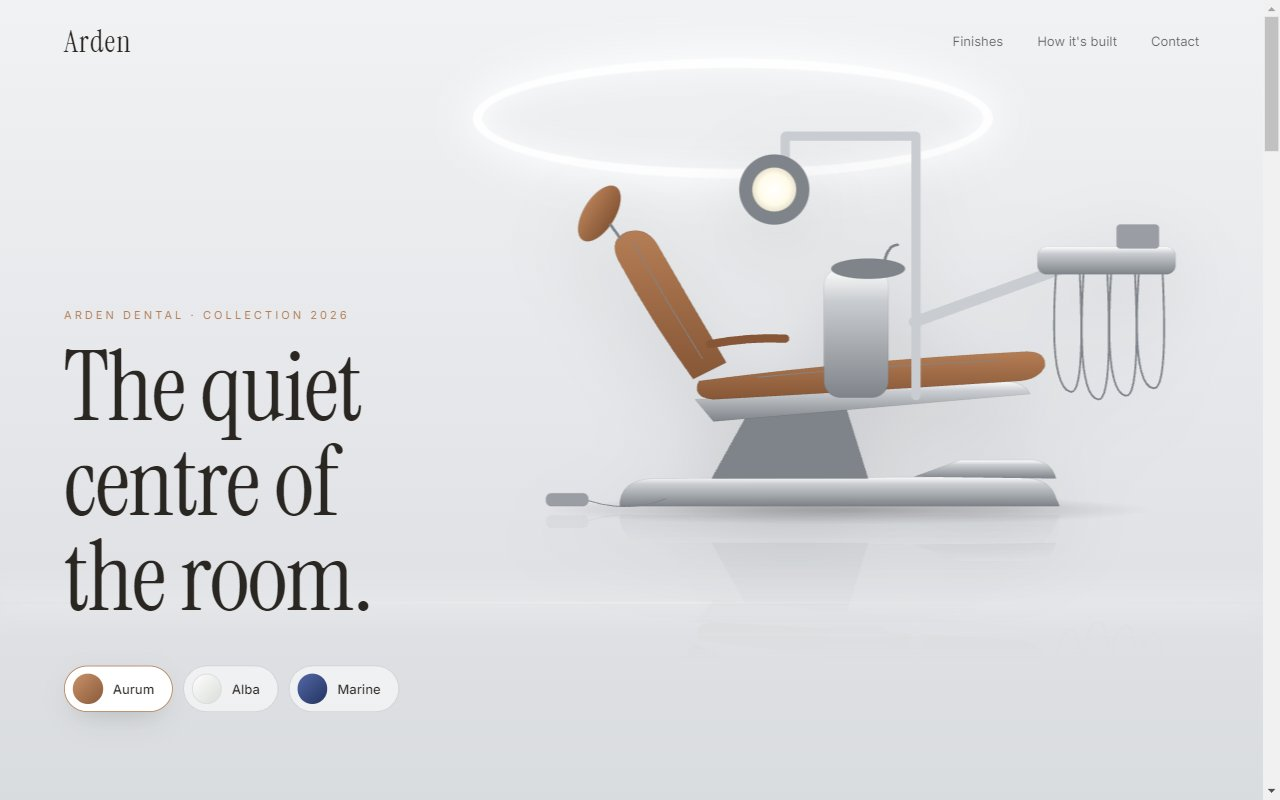
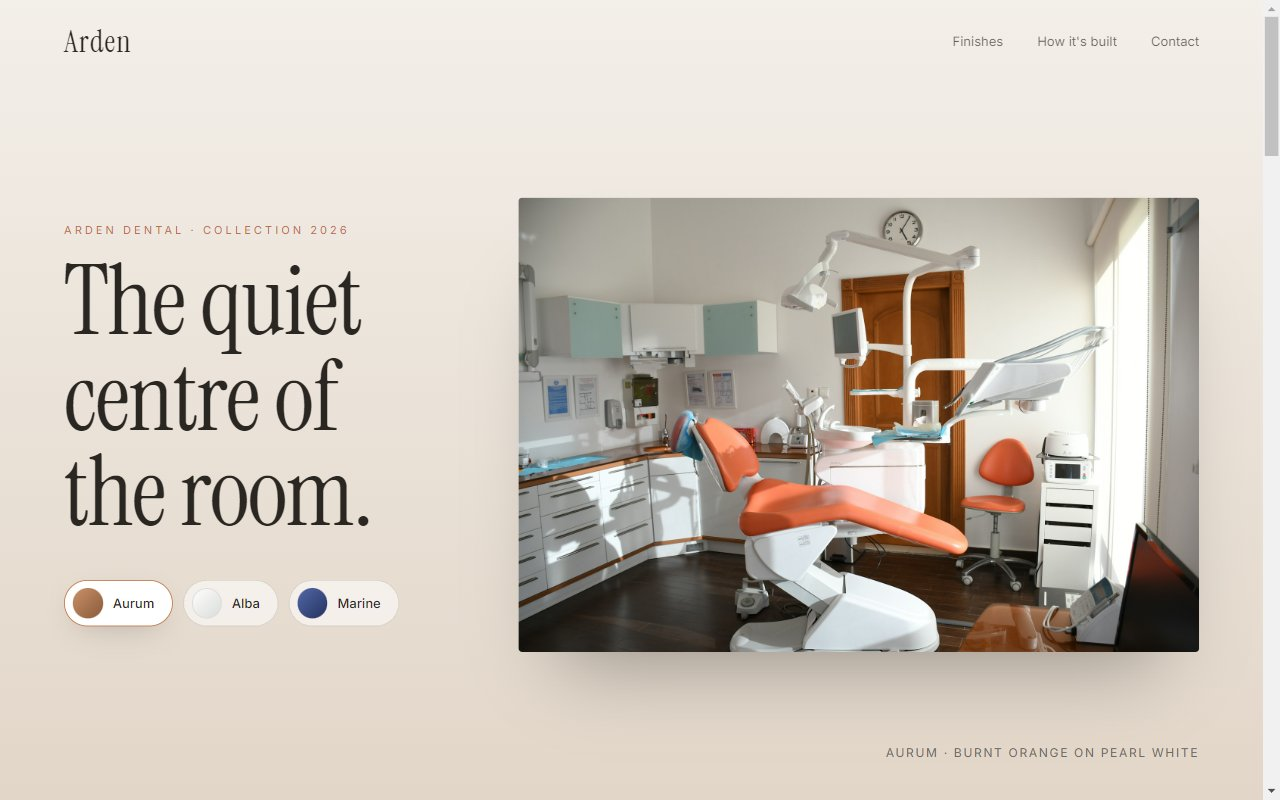
Arden: real photography in place of the drawn chairs
The hero and the three finish rooms now use real, license-free dental
chair photos (Unsplash, metadata stripped), with each section's colours
matched to its photo. The production blueprint stays a line drawing.

diff --git a/templates/aurum/style.css b/templates/aurum/style.css
@@ -1,8 +1,8 @@
 /* Arden: each room takes its colours from its chair. */
 :root { --serif: 'Instrument Serif', Georgia, serif; --sans: 'Inter Variable', system-ui, sans-serif; --ease: cubic-bezier(.16,1,.3,1); }
-body[data-finish='aurum'] { --bg1: #f1f2f4; --bg2: #d4d7db; --ink: #2a2622; --accent: #b47d55; --muted: #6f6a64; }
+body[data-finish='aurum'] { --bg1: #f3efe9; --bg2: #e2d6c8; --ink: #2a2622; --accent: #c2703f; --muted: #6f6a64; }
 body[data-finish='alba'] { --bg1: #fbfbfb; --bg2: #e7eaec; --ink: #2c3036; --accent: #8e98a3; --muted: #7b828a; }
-body[data-finish='marine'] { --bg1: #fdfcfa; --bg2: #ebe6dd; --ink: #1d2747; --accent: #b99a5f; --muted: #6c7180; }
+body[data-finish='marine'] { --bg1: #f6f8fb; --bg2: #dde7f0; --ink: #1d2747; --accent: #2f6fa6; --muted: #6c7180; }
 * { box-sizing: border-box; }
 html { scroll-behavior: smooth; }
 body { margin: 0; color: var(--ink); font-family: var(--sans); -webkit-font-smoothing: antialiased; background: #f6f5f2; transition: color 1s; }
@@ -19,9 +19,6 @@ h2 { font-size: clamp(40px, 4.8vw, 70px); }
 
 /* hero */
 .hero { position: relative; display: grid; grid-template-columns: .8fr 1.2fr; align-items: center; min-height: 100vh; padding: 110px clamp(20px,5vw,72px) 60px; overflow: hidden; background: linear-gradient(180deg, var(--bg1), var(--bg2)); transition: background 1.2s; }
-.hero::after { content: ''; position: absolute; left: 0; right: 0; top: 62%; height: 1px; background: linear-gradient(90deg, transparent, rgba(255,255,255,.9), transparent); box-shadow: 0 0 30px 6px rgba(255,255,255,.6); opacity: .8; }
-.halo { position: absolute; left: 58%; top: 6%; width: 520px; height: 120px; margin-left: -260px; border: 10px solid #fff; border-radius: 50%; box-shadow: 0 0 40px 8px rgba(255,255,255,.9), inset 0 0 30px rgba(255,255,255,.8); opacity: 0; animation: halo 2s var(--ease) .3s forwards; }
-@keyframes halo { from { opacity: 0; transform: scale(.85); } to { opacity: .95; transform: none; } }
 .hero__copy { position: relative; z-index: 2; }
 .hero h1 { margin-top: 18px; font-size: clamp(60px, 7.6vw, 120px); }
 .finish-pick { display: flex; gap: 10px; margin-top: 40px; }
@@ -31,7 +28,9 @@ h2 { font-size: clamp(40px, 4.8vw, 70px); }
 .finish-pick [data-finish='alba'] i { background: linear-gradient(135deg, #fff, #d9dcd8); box-shadow: inset 0 0 0 1px #ddd; }
 .finish-pick [data-finish='marine'] i { background: linear-gradient(135deg, #5468a8, #23325f); }
 .finish-pick [aria-pressed='true'] { background: #fff; border-color: var(--accent); box-shadow: 0 10px 30px -12px rgba(0,0,0,.25); }
-.hero__chair { position: relative; z-index: 1; }
+.hero__photo { position: relative; z-index: 1; aspect-ratio: 3 / 2; overflow: hidden; border-radius: 4px; box-shadow: 0 50px 80px -40px rgba(0,0,0,.35); }
+.hero__photo img { position: absolute; inset: 0; width: 100%; height: 100%; object-fit: cover; opacity: 0; transform: scale(1.06); transition: opacity 1.1s ease, transform 2.4s var(--ease); }
+.hero__photo img.is-on { opacity: 1; transform: none; }
 .hero__chair svg { display: block; width: 100%; height: auto; filter: drop-shadow(0 30px 40px rgba(0,0,0,.12)); }
 .hero__chair .reflect { transform: scaleY(-1); opacity: .12; mask-image: linear-gradient(0deg, #000, transparent 40%); margin-top: -4%; }
 .hero__note { position: absolute; right: clamp(20px,5vw,72px); bottom: 40px; margin: 0; font-size: 12px; letter-spacing: .14em; text-transform: uppercase; color: var(--muted); }
@@ -41,13 +40,15 @@ h2 { font-size: clamp(40px, 4.8vw, 70px); }
 /* finishes */
 .room { display: grid; grid-template-columns: 1.2fr .8fr; gap: clamp(30px,6vw,100px); align-items: center; min-height: 90vh; padding: 100px clamp(20px,5vw,72px); }
 .room:nth-child(2) { grid-template-columns: .8fr 1.2fr; }
-.room--aurum { background: linear-gradient(160deg, #eceef0, #cdd0d4); color: #2a2622; --accent: #a8704a; }
-.room--alba { background: radial-gradient(80% 90% at 70% 50%, #ffffff, #eef0f1 60%, #e1e5e8); color: #2c3036; --accent: #8e98a3; }
-.room--marine { position: relative; background: linear-gradient(180deg, #fdfcfa, #f1ede6); color: #1d2747; --accent: #b4955a; }
-.room--marine::before { content: ''; position: absolute; inset: 40px; border: 1px solid rgba(180,149,90,.35); pointer-events: none; }
+.room--aurum { background: linear-gradient(160deg, #1c2733, #101820); color: #f3ece4; --accent: #e08a4f; }
+.room--alba { background: radial-gradient(80% 90% at 30% 50%, #ffffff, #f2f2ef 60%, #e6e3dc); color: #2c3036; --accent: #a08f72; }
+.room--marine { position: relative; background: linear-gradient(180deg, #f6f8fb, #e3ebf2); color: #1d2747; --accent: #2f6fa6; }
+.room--marine::before { content: ''; position: absolute; inset: 40px; border: 1px solid rgba(47,111,166,.25); pointer-events: none; }
 .room__text h2 { margin-top: 16px; }
 .room__text p:last-child { max-width: 380px; margin: 22px 0 0; font-size: 15px; line-height: 1.7; opacity: .7; }
-.room__chair svg { display: block; width: 100%; height: auto; filter: drop-shadow(0 30px 40px rgba(0,0,0,.12)); }
+.room__chair { overflow: hidden; border-radius: 4px; aspect-ratio: 3 / 2; box-shadow: 0 50px 80px -45px rgba(0,0,0,.4); }
+.room__chair img { display: block; width: 100%; height: 100%; object-fit: cover; transition: transform 1.6s var(--ease); }
+.room:hover .room__chair img { transform: scale(1.04); }
 .room__chair, .room__text { opacity: 0; transform: translateY(40px); transition: opacity 1.2s var(--ease), transform 1.2s var(--ease); }
 .room.is-in .room__chair, .room.is-in .room__text { opacity: 1; transform: none; }
 .room.is-in .room__text { transition-delay: .2s; }
@@ -81,14 +82,12 @@ h2 { font-size: clamp(40px, 4.8vw, 70px); }
 .contact small { display: block; margin-top: 80px; font-size: 11px; opacity: .5; }
 
 @media (prefers-reduced-motion: reduce) {
-  .halo { animation: none; opacity: .95; }
   .room__chair, .room__text { opacity: 1; transform: none; }
   #blueprint .part * { stroke-dashoffset: 0; transition: none; }
 }
 @media (max-width: 900px) {
   .nav nav { display: none; }
   .hero, .room, .room:nth-child(2), .build__body { grid-template-columns: 1fr; }
-  .halo { left: 50%; width: 320px; height: 80px; margin-left: -160px; top: 46%; }
   .hero__note { position: static; margin-top: 10px; }
   .room:nth-child(2) .room__chair { order: -1; }
   .room { min-height: 0; }

diff --git a/templates/aurum/index.html b/templates/aurum/index.html
@@ -17,7 +17,6 @@
 
     <!-- hero: the room changes with the finish -->
     <section class="hero" id="top">
-      <div class="halo" aria-hidden="true"></div>
       <div class="hero__copy">
         <p class="eyebrow">Arden Dental · Collection 2026</p>
         <h1>The quiet<br />centre of<br />the room.</h1>
@@ -27,23 +26,27 @@
           <button type="button" data-finish="marine" aria-pressed="false"><i></i>Marine</button>
         </div>
       </div>
-      <div class="hero__chair" id="heroChair"></div>
-      <p class="hero__note" id="finishNote">Aurum · cognac upholstery on brushed titanium</p>
+      <div class="hero__photo" id="heroPhoto">
+        <img src="./assets/aurum.jpg" alt="An Arden chair in the Aurum finish" data-finish="aurum" class="is-on" />
+        <img src="./assets/alba.jpg" alt="An Arden chair in the Alba finish" data-finish="alba" />
+        <img src="./assets/marine.jpg" alt="An Arden chair in the Marine finish" data-finish="marine" />
+      </div>
+      <p class="hero__note" id="finishNote">Aurum · burnt orange on pearl white</p>
     </section>
 
     <!-- the three finishes, each in its own room -->
     <section class="finishes" id="finishes">
       <article class="room room--aurum">
-        <div class="room__chair" data-chair="aurum"></div>
-        <div class="room__text"><p class="eyebrow">01 · Aurum</p><h2>Warm leather,<br />cool metal.</h2><p>Cognac upholstery over a brushed titanium shell, for practices that feel like a private lounge.</p></div>
+        <div class="room__chair"><img src="./assets/aurum-room.jpg" alt="Aurum finish in a treatment room" /></div>
+        <div class="room__text"><p class="eyebrow">01 · Aurum</p><h2>Warm leather,<br />cool metal.</h2><p>Burnt-orange upholstery on a pearl-white frame, for practices with a little more warmth.</p></div>
       </article>
       <article class="room room--alba">
         <div class="room__text"><p class="eyebrow">02 · Alba</p><h2>All white.<br />All calm.</h2><p>Ivory upholstery on a pearl shell. A chair that almost disappears into a bright room.</p></div>
-        <div class="room__chair" data-chair="alba"></div>
+        <div class="room__chair"><img src="./assets/alba-room.jpg" alt="Alba finish in a bright surgery" /></div>
       </article>
       <article class="room room--marine">
-        <div class="room__chair" data-chair="marine"></div>
-        <div class="room__text"><p class="eyebrow">03 · Marine</p><h2>Deep navy,<br />bright marble.</h2><p>Ocean-blue upholstery on a gloss-white body, made for light, modern surgeries.</p></div>
+        <div class="room__chair"><img src="./assets/marine-room.jpg" alt="Marine finish in a modern clinic" /></div>
+        <div class="room__text"><p class="eyebrow">03 · Marine</p><h2>Sky blue,<br />warm wood.</h2><p>Soft blue upholstery on a gloss-white body, made for light, modern surgeries.</p></div>
       </article>
     </section>
 

diff --git a/templates/aurum/main.js b/templates/aurum/main.js
@@ -1,23 +1,19 @@
 import '@fontsource/instrument-serif/400.css'
 import '@fontsource-variable/inter/wght.css'
 import './style.css'
-import { chairSVG, PALETTES, STAGES } from './chair.js'
+import { chairSVG, STAGES } from './chair.js'
 
 const reduced = matchMedia('(prefers-reduced-motion: reduce)').matches
 const $ = (id) => document.getElementById(id)
 const NOTES = {
-  aurum: 'Aurum · cognac upholstery on brushed titanium',
+  aurum: 'Aurum · burnt orange on pearl white',
   alba: 'Alba · ivory upholstery on a pearl shell',
-  marine: 'Marine · ocean navy on gloss white',
+  marine: 'Marine · sky blue on gloss white',
 }
 
 /* hero: the chair and its reflection; the room follows the finish */
 const drawHero = (finish) => {
-  const p = PALETTES[finish]
-  $('heroChair').innerHTML = chairSVG({ palette: p, id: 'h' }) + `<div class="reflect">${chairSVG({ palette: p, id: 'hr' })}</div>`
-  $('heroChair').classList.remove('swap')
-  void $('heroChair').offsetWidth
-  if (!reduced) $('heroChair').classList.add('swap')
+  $('heroPhoto').querySelectorAll('img').forEach((img) => img.classList.toggle('is-on', img.dataset.finish === finish))
   $('finishNote').textContent = NOTES[finish]
   document.body.dataset.finish = finish
   document.querySelectorAll('.finish-pick button').forEach((b) => b.setAttribute('aria-pressed', String(b.dataset.finish === finish)))
@@ -27,10 +23,6 @@ drawHero('aurum')
 
 addEventListener('scroll', () => document.querySelector('.nav').classList.toggle('is-solid', scrollY > 80), { passive: true })
 
-/* each room's own chair */
-document.querySelectorAll('[data-chair]').forEach((el) => {
-  el.innerHTML = chairSVG({ palette: PALETTES[el.dataset.chair], id: `r-${el.dataset.chair}` })
-})
 const rooms = new IntersectionObserver((es) => es.forEach((e) => e.isIntersecting && e.target.classList.add('is-in')), { threshold: 0.25 })
 document.querySelectorAll('.room').forEach((r) => rooms.observe(r))
 

diff --git a/src/data/templates.js b/src/data/templates.js
@@ -96,7 +96,7 @@ export const websiteTemplates = [
     name: 'Arden',
     style: 'Premium product portfolio',
     summary:
-      'A single-page showcase where each room takes its colours from the product, and a blueprint that draws the product stage by stage.',
+      'A single-page showcase with real product photography, rooms coloured to match each finish, and a blueprint that draws the product.',
     bestFor: ['Medical and dental equipment', 'Luxury furniture', 'Product design studios', 'Premium manufacturers'],
     thumbnail: '/templates/aurum.jpg',
     chrome: 'light',
